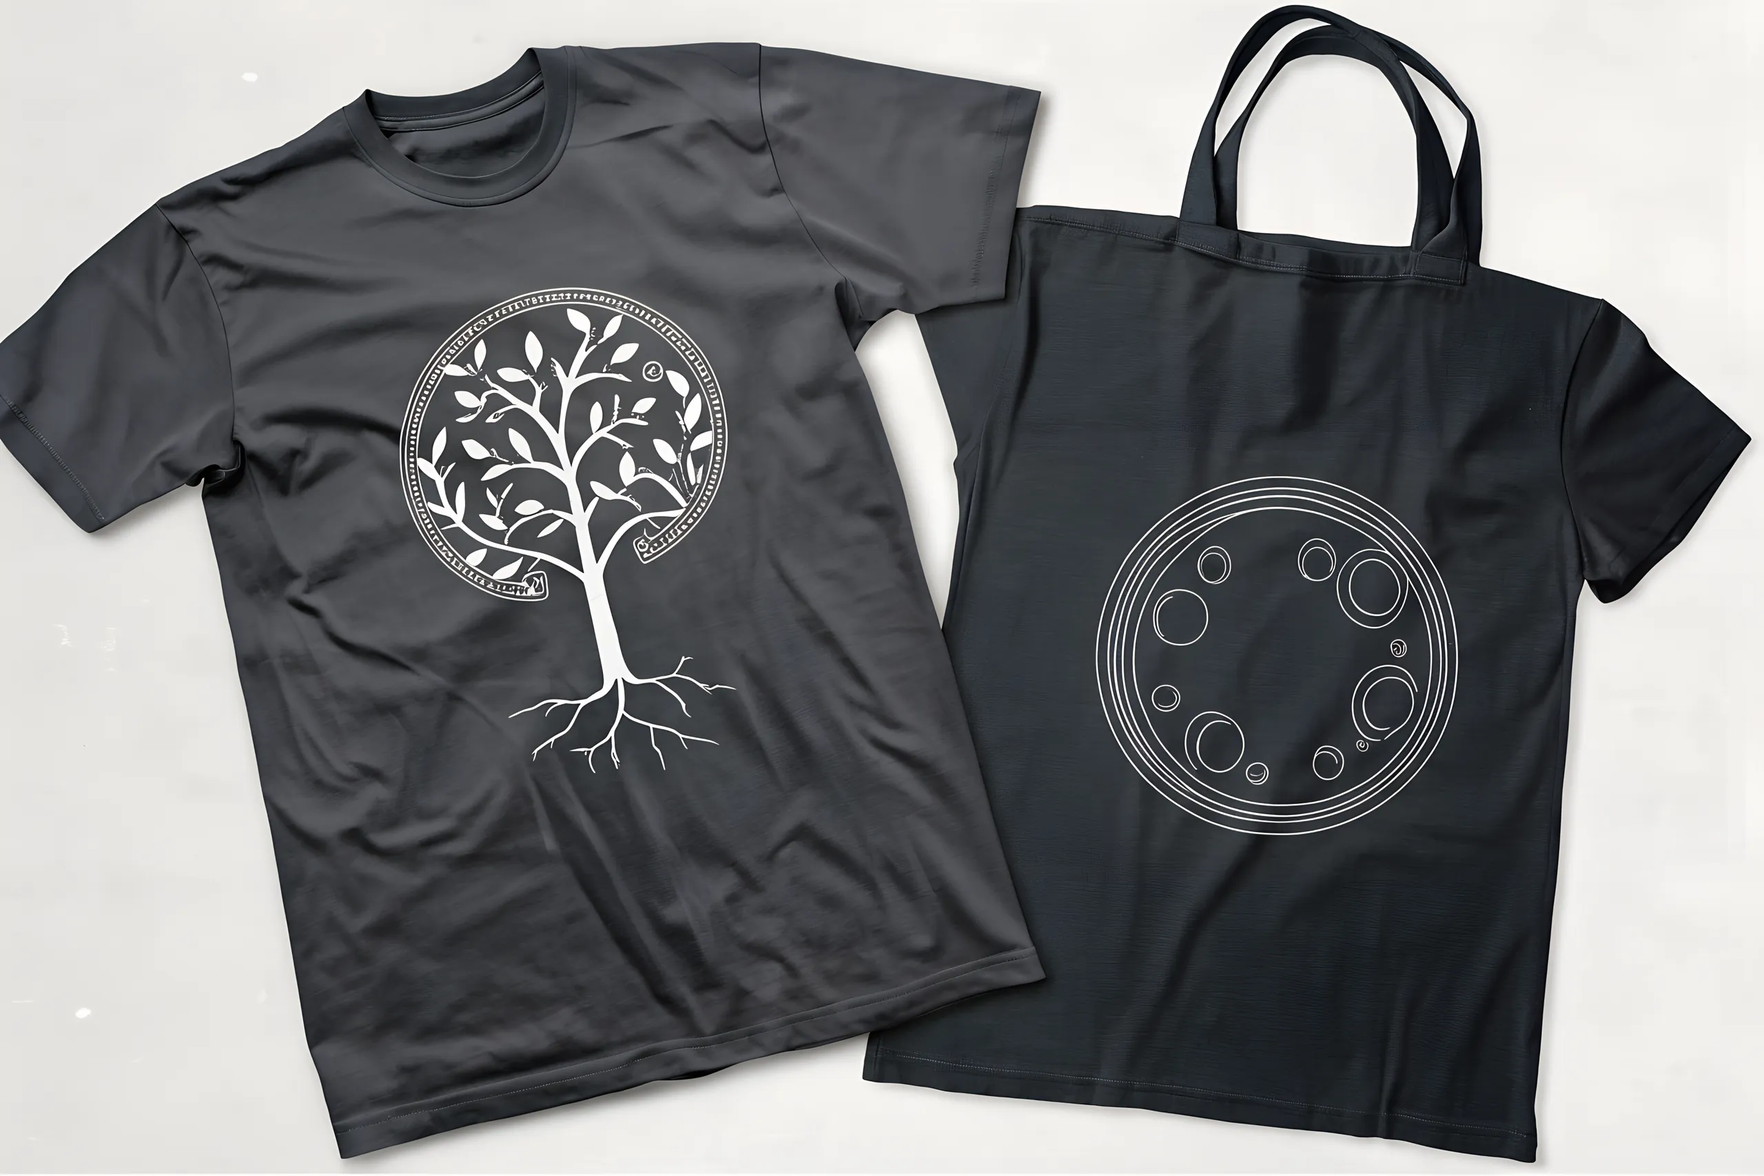
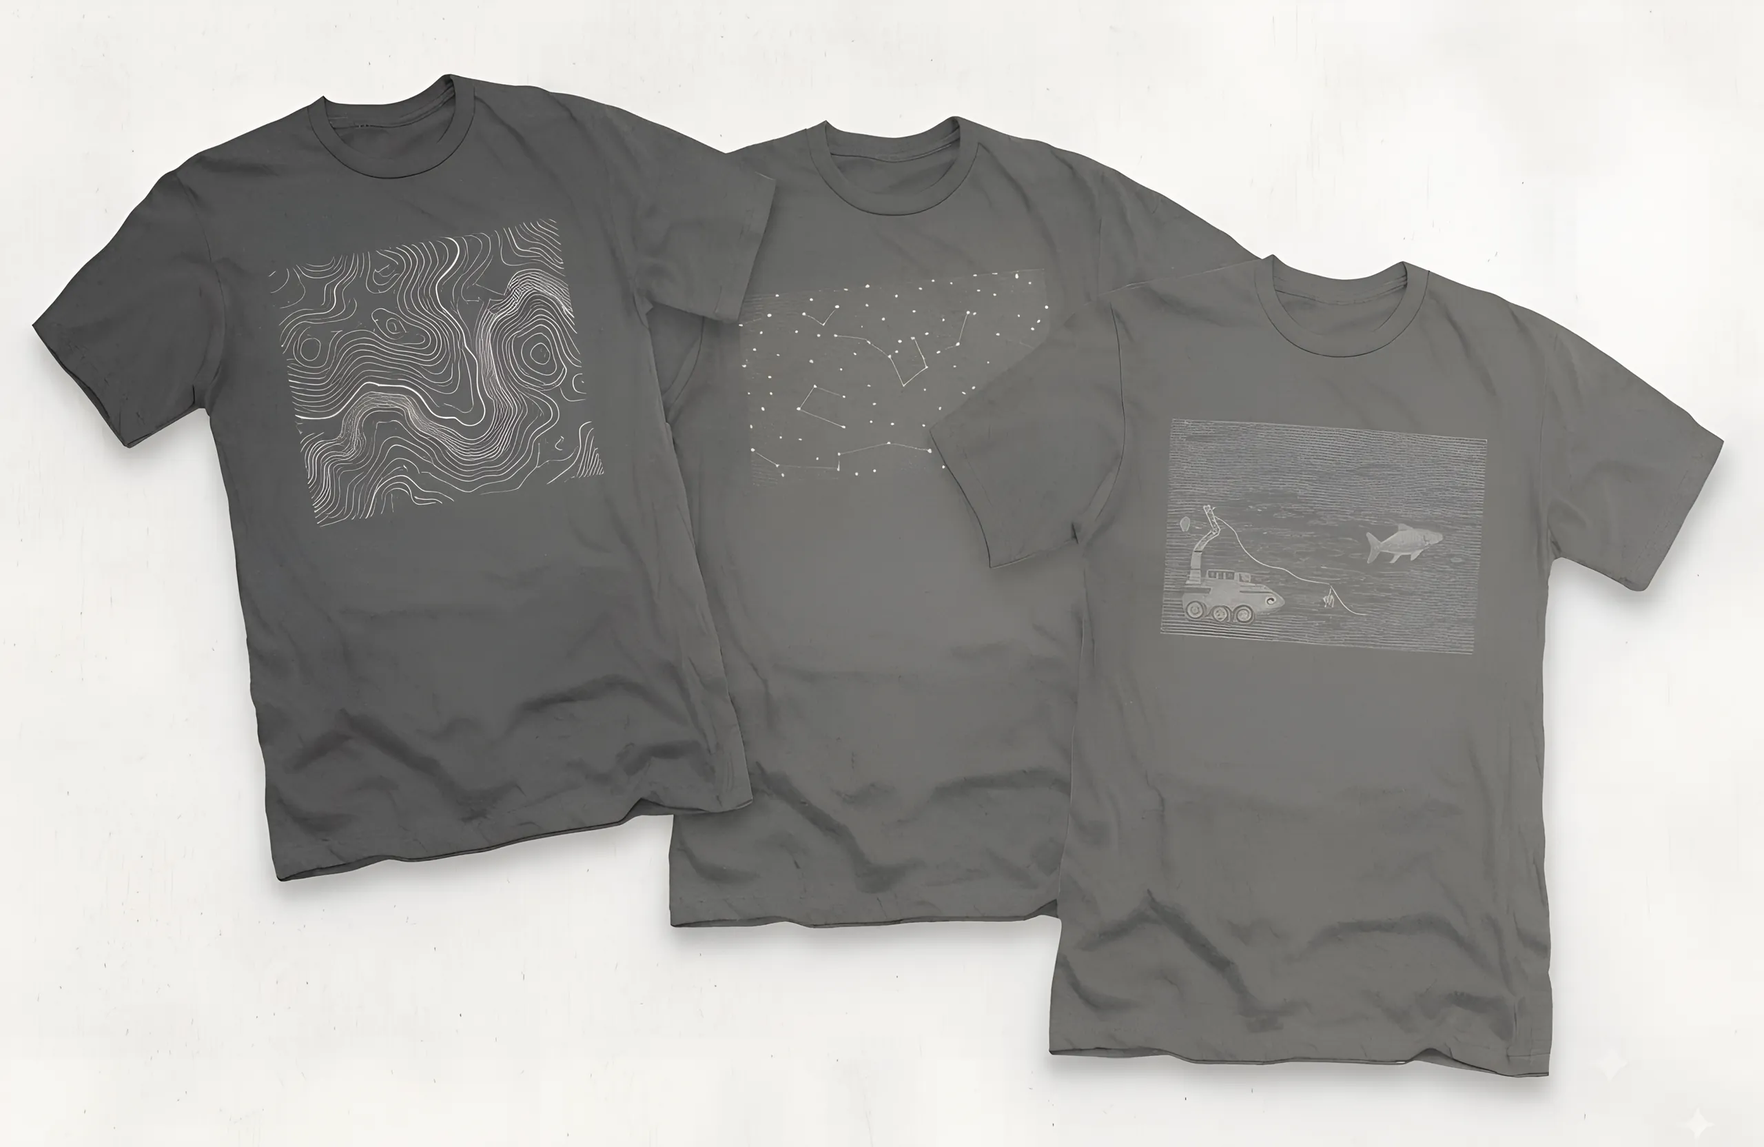
feat: a hero that sits on its photograph, one new token, and a polish pass

diff --git a/web/components/hero.tsx b/web/components/hero.tsx
@@ -20,13 +20,18 @@ import { storeConfig } from "@/lib/store-config";
  * category slug for the featured-series band this replaces -- the hero is that
  * band promoted to lead, so the config shape did not change.
  *
- * **The copy sits in a panel, not on the photograph.** Text laid straight over
- * a photo is legible exactly as long as the photo stays light where the text is,
- * and the photo is a config value that will change. A `bg-surface` panel is
- * legible over anything. On a phone the panel stacks below the image and pulls
- * up over its bottom edge; above `wide:` it sits bottom-left inside the same
- * content column the rest of the page uses, so the copy lines up with the grid
- * beneath it rather than floating at the viewport's edge.
+ * **The panel sits on the photograph at every width, and it is translucent.**
+ * The first version stacked it below the image on a phone and pulled it up by
+ * 40px to "break the frame" -- and the frame won: the image wrapper is
+ * `relative` and the panel's wasn't, so a positioned sibling painted over an
+ * in-flow one and the overlap, eyebrow included, was hidden under the
+ * photograph. Absolute at every width removes the bug and the trick together.
+ * `bg-surface/80` with a backdrop blur keeps the copy legible over any part of
+ * any photograph while still reading as one composition rather than a card
+ * pasted on top; the tokens are unchanged, only their alpha.
+ *
+ * The frame is 3:4 on a phone -- taller than the 4:5 the tiles use -- so the
+ * garments still show above a panel that covers roughly the lower 45%.
  *
  * The heading is the page's `<h1>`. The store name is carried by the wordmark's
  * alt text and by `<title>`; a heading that says what the store is *leading
@@ -53,11 +58,12 @@ export function Hero() {
 
   return (
     <section aria-labelledby="hero-heading" className="relative">
-      {/* Portrait on a phone, wide on a desktop. A 3:2 source with its subject
-          centred crops acceptably into both; if a future photograph doesn't,
-          the fix is a second <Image> art-directed with wide:hidden / hidden
-          wide:block, not a change here. */}
-      <div className="relative aspect-[4/5] wide:aspect-[2/1]">
+      {/* Portrait on a phone, wide on a desktop. A 3:2 source composed with its
+          subject in the upper right and empty backdrop lower left crops into
+          both without covering the garments; the photograph is generated to
+          that brief, and a future one that isn't gets a second art-directed
+          <Image> rather than a change here. */}
+      <div className="relative aspect-[3/4] wide:aspect-[2/1]">
         <Image
           src={featured.image}
           alt={featured.image_alt}
@@ -70,32 +76,34 @@ export function Hero() {
         />
       </div>
 
-      {/* In normal flow below the image on a phone, pulled up by -mt-10 so the
-          panel breaks the photograph's bottom edge. Above wide: the wrapper is
-          absolute at the bottom of the section and shares the page's content
-          column, so the panel's left edge lines up with the grid below. */}
-      <div className="mx-auto max-w-6xl px-6 wide:absolute wide:inset-x-0 wide:bottom-0">
-        <div className="-mt-10 rounded-md border border-border bg-surface p-6 shadow-md wide:mb-10 wide:mt-0 wide:max-w-md wide:p-8">
-          {/* Merchandising is what the accent token is for; this and the active
-              nav item are its two appearances on the page. */}
-          <p className="font-body text-xs uppercase tracking-tight text-accent">
-            {featured.eyebrow}
-          </p>
-          <h1
-            id="hero-heading"
-            className="mt-3 font-display text-2xl uppercase leading-none tracking-tight text-text wide:text-3xl"
-          >
-            {featured.heading}
-          </h1>
-          <p className="mt-4 max-w-prose font-body text-sm text-muted wide:text-base">
-            {featured.body}
-          </p>
-          <Link
-            href={`/categories/${featured.category}`}
-            className={buttonClasses({ className: "mt-6 inline-flex" })}
-          >
-            {featured.cta}
-          </Link>
+      {/* Absolute at every width. On a phone the panel keeps the page's 24px
+          gutter; above wide: the wrapper spans the section and the inner column
+          is the same max-w-6xl the grid uses, so the panel's left edge lines up
+          with everything below it. */}
+      <div className="absolute inset-x-6 bottom-6 wide:inset-x-0 wide:bottom-10">
+        <div className="mx-auto max-w-6xl wide:px-6">
+          <div className="rounded-md border border-border/60 bg-surface/80 p-6 shadow-lg backdrop-blur-md wide:max-w-md wide:p-8">
+            {/* Merchandising is what the accent token is for; this and the
+                active nav item are its two appearances on the page. */}
+            <p className="font-body text-xs uppercase tracking-wide text-accent">
+              {featured.eyebrow}
+            </p>
+            <h1
+              id="hero-heading"
+              className="mt-3 font-display text-2xl uppercase leading-none tracking-tight text-text wide:text-3xl"
+            >
+              {featured.heading}
+            </h1>
+            <p className="mt-4 max-w-prose font-body text-sm text-muted wide:text-base">
+              {featured.body}
+            </p>
+            <Link
+              href={`/categories/${featured.category}`}
+              className={buttonClasses({ className: "mt-6 inline-flex" })}
+            >
+              {featured.cta}
+            </Link>
+          </div>
         </div>
       </div>
     </section>

diff --git a/web/components/product-card.tsx b/web/components/product-card.tsx
@@ -21,8 +21,13 @@ import { formatMoney, formatUnit } from "@/lib/format";
 export function ProductCard({ product }: { product: ProductListItem }) {
   return (
     <Link href={`/products/${product.slug}`} className="group block">
-      <article className="overflow-hidden rounded-md border border-border bg-surface transition-shadow hover:shadow-md motion-reduce:transition-none">
-        <div className="relative aspect-[4/5] bg-background">
+      {/* The tile answers a hover the way the references do: it lifts, its
+          shadow deepens, and the photograph eases in by two percent. All three
+          are transitions, all three are off under prefers-reduced-motion, and
+          the image wrapper clips so the scaled photograph never leaks into the
+          meta block beneath it. */}
+      <article className="overflow-hidden rounded-md border border-border bg-surface transition-[transform,box-shadow] hover:-translate-y-0.5 hover:shadow-lg motion-reduce:transition-none motion-reduce:hover:translate-y-0">
+        <div className="relative aspect-[4/5] overflow-hidden bg-background">
           {product.primary_image ? (
             <Image
               src={product.primary_image.url}
@@ -31,7 +36,7 @@ export function ProductCard({ product }: { product: ProductListItem }) {
               alt={product.primary_image.alt_text}
               fill
               sizes="(max-width: 640px) 100vw, (max-width: 1024px) 50vw, 33vw"
-              className="object-cover"
+              className="object-cover transition-transform group-hover:scale-[1.02] motion-reduce:transition-none"
             />
           ) : (
             <div className="flex h-full items-center justify-center font-body text-xs text-muted">
@@ -48,7 +53,7 @@ export function ProductCard({ product }: { product: ProductListItem }) {
               single-price product would imply a choice that does not exist. */}
           <p className="mt-2 font-display text-lg text-text">
             {product.min_price !== product.max_price && (
-              <span className="font-body text-xs uppercase tracking-tight text-muted">
+              <span className="font-body text-xs uppercase tracking-wide text-muted">
                 From{" "}
               </span>
             )}

diff --git a/web/components/series-strip.tsx b/web/components/series-strip.tsx
@@ -75,7 +75,7 @@ export async function SeriesStrip() {
   if (tiles.length === 0) return null;
 
   return (
-    <section aria-labelledby="series-strip-heading" className="mx-auto max-w-6xl px-6 pt-12">
+    <section aria-labelledby="series-strip-heading" className="mx-auto max-w-6xl px-6 pt-16 wide:pt-24">
       {/* Read by assistive tech, not shown: the tiles explain themselves, and
           the word for "a group of products" is the store's to choose --
           ImprimaPress says "series", a candle store would not. */}
@@ -96,11 +96,15 @@ export async function SeriesStrip() {
                   className="object-cover transition-transform group-hover:scale-[1.02] motion-reduce:transition-none"
                 />
               </div>
-              <h3 className="mt-3 font-display text-sm uppercase leading-tight tracking-tight text-text">
+              {/* The name underlines in the accent on hover -- the same gesture
+                  the nav uses for "you are here", offered here as "you could
+                  be". Transparent-to-accent rather than none-to-underline, so
+                  the text does not shift when the line appears. */}
+              <h3 className="mt-3 font-display text-sm uppercase leading-tight tracking-tight text-text underline decoration-transparent decoration-2 underline-offset-4 transition-[text-decoration-color] group-hover:decoration-accent motion-reduce:transition-none">
                 {category.name}
               </h3>
               {/* Same noun the catalogue heading uses. One vocabulary. */}
-              <p className="mt-1 font-body text-xs uppercase tracking-tight text-muted">
+              <p className="mt-1 font-body text-xs uppercase tracking-wide text-muted">
                 {total} {total === 1 ? "product" : "products"}
               </p>
             </Link>

diff --git a/web/app/admin/users/[id]/page.tsx b/web/app/admin/users/[id]/page.tsx
@@ -40,7 +40,7 @@ export default async function AdminUserPage({
     <main className="mx-auto max-w-6xl px-6 py-12">
       <Link
         href="/admin/users"
-        className="font-body text-xs uppercase tracking-tight text-muted hover:text-text"
+        className="font-body text-xs uppercase tracking-wide text-muted hover:text-text"
       >
         &larr; All users
       </Link>
@@ -50,12 +50,12 @@ export default async function AdminUserPage({
           {user.full_name}
         </h1>
         {!user.is_active && (
-          <span className="rounded-sm border border-accent px-2 py-1 font-body text-xs uppercase tracking-tight text-accent">
+          <span className="rounded-sm border border-accent px-2 py-1 font-body text-xs uppercase tracking-wide text-accent">
             Suspended
           </span>
         )}
         {user.role === "admin" && (
-          <span className="rounded-sm border border-border px-2 py-1 font-body text-xs uppercase tracking-tight text-muted">
+          <span className="rounded-sm border border-border px-2 py-1 font-body text-xs uppercase tracking-wide text-muted">
             Admin
           </span>
         )}
@@ -173,7 +173,7 @@ export default async function AdminUserPage({
           {user.addresses.length > 0 && (
             <Card>
               <CardBody>
-                <h2 className="font-body text-xs uppercase tracking-tight text-muted">
+                <h2 className="font-body text-xs uppercase tracking-wide text-muted">
                   Addresses
                 </h2>
                 <ul className="mt-3 flex flex-col gap-3">

diff --git a/web/components/order-status-actions.tsx b/web/components/order-status-actions.tsx
@@ -98,7 +98,7 @@ function DispatchForm({ orderId }: { orderId: number }) {
       <form action={formAction} className="flex flex-wrap items-end gap-3">
         <input type="hidden" name="order_id" value={orderId} />
         <label className="flex flex-col gap-1">
-          <span className="font-body text-xs uppercase tracking-tight text-muted">
+          <span className="font-body text-xs uppercase tracking-wide text-muted">
             Carrier
           </span>
           <select
@@ -114,7 +114,7 @@ function DispatchForm({ orderId }: { orderId: number }) {
           </select>
         </label>
         <label className="flex flex-col gap-1">
-          <span className="font-body text-xs uppercase tracking-tight text-muted">
+          <span className="font-body text-xs uppercase tracking-wide text-muted">
             Tracking number
           </span>
           <Input name="tracking_number" className="w-64" autoComplete="off" />
@@ -224,7 +224,7 @@ function ShipmentPanel({
               name="status"
               value={s}
               disabled={pending}
-              className="rounded-md border border-border bg-transparent px-2 py-1 font-body text-xs uppercase tracking-tight text-text hover:bg-background disabled:opacity-50"
+              className="rounded-md border border-border bg-transparent px-2 py-1 font-body text-xs uppercase tracking-wide text-text hover:bg-background disabled:opacity-50"
             >
               {eventLabel(s)}
             </button>

diff --git a/web/components/inventory-table.tsx b/web/components/inventory-table.tsx
@@ -57,7 +57,7 @@ function Row({ row }: { row: InventoryRow }) {
           {row.productName}
         </Link>
         {!row.productActive && (
-          <span className="ml-2 font-body text-xs uppercase tracking-tight text-muted">
+          <span className="ml-2 font-body text-xs uppercase tracking-wide text-muted">
             hidden
           </span>
         )}
@@ -111,15 +111,15 @@ function Row({ row }: { row: InventoryRow }) {
             shelf and twelve reserved reads Sold out to customers, and this
             badge is what connects the two numbers beside it. */}
         {row.quantitySellable === 0 ? (
-          <span className="rounded-sm border border-accent px-2 py-1 font-body text-xs uppercase tracking-tight text-accent">
+          <span className="rounded-sm border border-accent px-2 py-1 font-body text-xs uppercase tracking-wide text-accent">
             Out of stock
           </span>
         ) : row.needsReorder ? (
-          <span className="rounded-sm border border-accent px-2 py-1 font-body text-xs uppercase tracking-tight text-accent">
+          <span className="rounded-sm border border-accent px-2 py-1 font-body text-xs uppercase tracking-wide text-accent">
             Reorder
           </span>
         ) : (
-          <span className="font-body text-xs uppercase tracking-tight text-muted">
+          <span className="font-body text-xs uppercase tracking-wide text-muted">
             OK
           </span>
         )}

diff --git a/web/app/admin/products/page.tsx b/web/app/admin/products/page.tsx
@@ -123,7 +123,7 @@ export default async function AdminProductsPage({
               href={categoryHref(c.id)}
               aria-current={active ? "true" : undefined}
               className={cn(
-                "rounded-sm border px-3 py-1 font-body text-xs uppercase tracking-tight transition-colors motion-reduce:transition-none",
+                "rounded-sm border px-3 py-1 font-body text-xs uppercase tracking-wide transition-colors motion-reduce:transition-none",
                 active
                   ? "border-accent text-accent"
                   : "border-border text-muted hover:text-text",
@@ -198,11 +198,11 @@ export default async function AdminProductsPage({
                       </TD>
                       <TD>
                         {p.is_active ? (
-                          <span className="font-body text-xs uppercase tracking-tight text-muted">
+                          <span className="font-body text-xs uppercase tracking-wide text-muted">
                             Visible
                           </span>
                         ) : (
-                          <span className="rounded-sm border border-accent px-2 py-1 font-body text-xs uppercase tracking-tight text-accent">
+                          <span className="rounded-sm border border-accent px-2 py-1 font-body text-xs uppercase tracking-wide text-accent">
                             Hidden
                           </span>
                         )}

diff --git a/web/app/admin/users/page.tsx b/web/app/admin/users/page.tsx
@@ -73,7 +73,7 @@ export default async function AdminUsersPage({
       </div>
 
       <form action="/admin/users" className="mt-6 flex flex-wrap items-end gap-3">
-        <label className="flex flex-col gap-1 font-body text-xs uppercase tracking-tight text-muted">
+        <label className="flex flex-col gap-1 font-body text-xs uppercase tracking-wide text-muted">
           Search
           <input
             name="q"
@@ -151,11 +151,11 @@ export default async function AdminUsersPage({
                     <TD className="text-muted">{u.role}</TD>
                     <TD>
                       {u.is_active ? (
-                        <span className="font-body text-xs uppercase tracking-tight text-muted">
+                        <span className="font-body text-xs uppercase tracking-wide text-muted">
                           Active
                         </span>
                       ) : (
-                        <span className="rounded-sm border border-accent px-2 py-1 font-body text-xs uppercase tracking-tight text-accent">
+                        <span className="rounded-sm border border-accent px-2 py-1 font-body text-xs uppercase tracking-wide text-accent">
                           Suspended
                         </span>
                       )}

diff --git a/web/components/product-images-editor.tsx b/web/components/product-images-editor.tsx
@@ -107,7 +107,7 @@ export function ProductImagesEditor({
               <p className="font-body text-sm text-text">{img.alt_text}</p>
 
               {img.is_primary ? (
-                <span className="inline-block w-fit rounded-sm border border-accent px-2 py-1 font-body text-xs uppercase tracking-tight text-accent">
+                <span className="inline-block w-fit rounded-sm border border-accent px-2 py-1 font-body text-xs uppercase tracking-wide text-accent">
                   Primary
                 </span>
               ) : (
@@ -127,7 +127,7 @@ export function ProductImagesEditor({
                   <input type="hidden" name="product_id" value={product.id} />
                   <input type="hidden" name="slug" value={product.slug} />
                   <input type="hidden" name="intent" value="applies" />
-                  <label className="font-body text-xs uppercase tracking-tight text-muted">
+                  <label className="font-body text-xs uppercase tracking-wide text-muted">
                     Shows for
                   </label>
                   <select

diff --git a/web/components/category-nav.tsx b/web/components/category-nav.tsx
@@ -32,9 +32,14 @@ export function CategoryNav({ categories }: { categories: Category[] }) {
               aria-current={active ? "page" : undefined}
               className={cn(
                 "block whitespace-nowrap font-body text-sm transition-colors motion-reduce:transition-none",
+                // Every link carries the underline; only its colour changes.
+                // Transparent at rest, muted on hover, accent when active --
+                // one gesture for "you could be here" and "you are here", and
+                // nothing moves when the line appears.
+                "underline decoration-2 underline-offset-8 transition-[color,text-decoration-color]",
                 active
-                  ? "text-accent underline decoration-2 underline-offset-8"
-                  : "text-muted hover:text-text",
+                  ? "text-accent decoration-accent"
+                  : "text-muted decoration-transparent hover:text-text hover:decoration-muted",
               )}
             >
               {c.name}

diff --git a/web/components/add-to-cart.tsx b/web/components/add-to-cart.tsx
@@ -41,7 +41,7 @@ export function AddToCart({ variants }: { variants: Variant[] }) {
         <fieldset className="flex flex-col gap-2">
           {/* A fieldset/legend pair is what tells a screen reader these radios
               are one group and what the group is for. */}
-          <legend className="mb-2 font-body text-xs uppercase tracking-tight text-muted">
+          <legend className="mb-2 font-body text-xs uppercase tracking-wide text-muted">
             Options
           </legend>
           {variants.map((v) => (
@@ -70,7 +70,7 @@ export function AddToCart({ variants }: { variants: Variant[] }) {
               <span className="flex items-baseline gap-4">
                 <span className="text-text">{formatMoney(v.price)}</span>
                 {!v.in_stock && (
-                  <span className="text-xs uppercase tracking-tight text-accent">
+                  <span className="text-xs uppercase tracking-wide text-accent">
                     Sold out
                   </span>
                 )}

diff --git a/web/app/admin/products/[id]/page.tsx b/web/app/admin/products/[id]/page.tsx
@@ -54,7 +54,7 @@ export default async function EditProductPage({
     <main className="mx-auto max-w-6xl px-6 py-12">
       <Link
         href="/admin/products"
-        className="font-body text-xs uppercase tracking-tight text-muted hover:text-text"
+        className="font-body text-xs uppercase tracking-wide text-muted hover:text-text"
       >
         &larr; All products
       </Link>
@@ -64,7 +64,7 @@ export default async function EditProductPage({
           {product.name}
         </h1>
         {!product.is_active && (
-          <span className="rounded-sm border border-accent px-2 py-1 font-body text-xs uppercase tracking-tight text-accent">
+          <span className="rounded-sm border border-accent px-2 py-1 font-body text-xs uppercase tracking-wide text-accent">
             Hidden
           </span>
         )}
